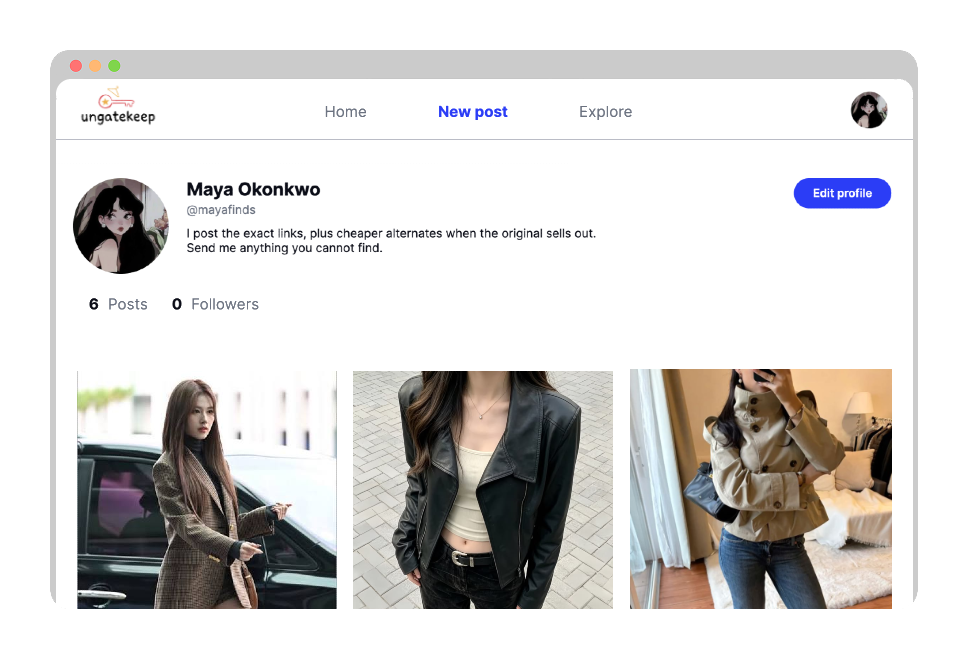
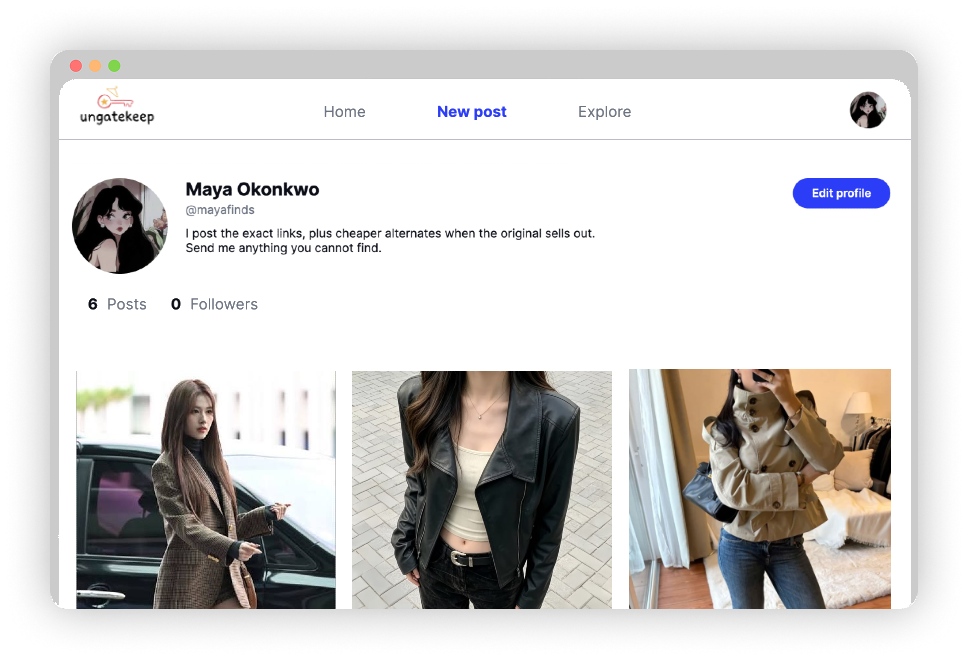
Remove CSS drop-shadow workaround for UnGatekeep project image
PJ4.png now has the backdrop shadow baked in directly, so the
needsShadow flag, its is-shadowless-source CSS filter, and the extra
margin it needed are no longer used.

diff --git a/src/pages/Projects.css b/src/pages/Projects.css
@@ -167,24 +167,6 @@
   pointer-events: none;
 }
 
-/* Most project mockup images already have a soft drop shadow baked into
-   their own transparent margin — PJ4 (UnGatekeep) doesn't, so this
-   reproduces one with a CSS filter instead. drop-shadow (rather than
-   box-shadow) follows the image's actual alpha silhouette, matching how
-   the baked-in ones hug the mockup window's shape instead of drawing a
-   shadow around the image's full rectangular bounds.
-   Unlike the baked-in ones, which have room to fade out inside their own
-   transparent canvas, this shadow paints outside the <img>'s own box —
-   and .projects-slide clips overflow, with nothing else reserving any
-   margin between the image's edge and that clip boundary. The max-width
-   trim below reserves a small margin for it to actually fit in, and the
-   blur stays tight enough to stay inside that margin instead of still
-   reaching the edge. */
-.projects-slide img.is-shadowless-source {
-  max-width: calc(100% - 20px);
-  filter: drop-shadow(0 2px 10px rgba(0, 0, 0, 0.22));
-}
-
 /* A soft blur over the outer (far-from-center) edge of each peeking
    slide — the side actually receding out of view — fading to clear
    toward the middle, so the peek looks like it's dissolving off-screen

diff --git a/src/data/site.ts b/src/data/site.ts
@@ -137,10 +137,6 @@ export type Project = {
   subtitle: string
   image: string
   description: string
-  /** Set when `image` doesn't already have a drop shadow baked into its
-   *  own transparent margin (PJ1-PJ3 do; see Projects.css for the CSS
-   *  fallback this triggers). */
-  needsShadow?: boolean
 }
 
 // Shown in the carousel on the Projects page, left to right. Clicking the
@@ -175,7 +171,6 @@ export const PROJECTS: Project[] = [
     image: '/PJ4.png',
     description:
       'A full-stack community platform for sharing clothing finds and cheaper alternatives — post what you tracked down, or ask for help finding a similar (and more affordable) version of something you can’t.',
-    needsShadow: true,
   },
 ]
 

diff --git a/src/pages/Projects.tsx b/src/pages/Projects.tsx
@@ -405,12 +405,7 @@ export default function Projects() {
                   data-dom-index={domIndex}
                   onClick={() => onSlideClick(domIndex)}
                 >
-                  <img
-                    src={project.image}
-                    alt={project.title}
-                    draggable={false}
-                    className={project.needsShadow ? 'is-shadowless-source' : undefined}
-                  />
+                  <img src={project.image} alt={project.title} draggable={false} />
                   {peekClass && <div className="projects-slide-edge" aria-hidden="true" />}
                 </div>
               )
